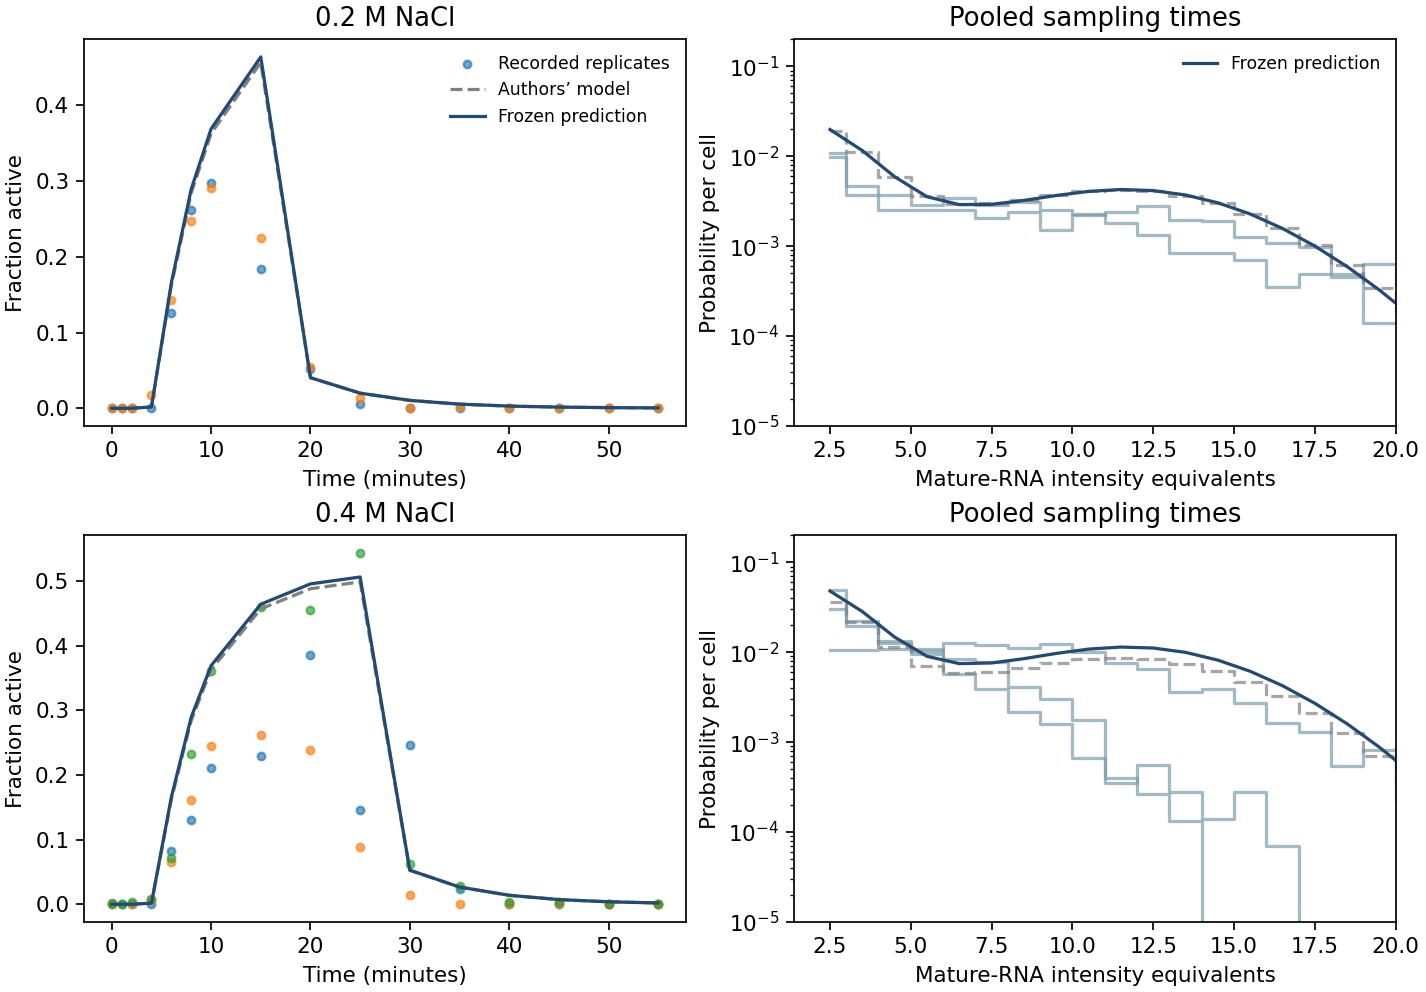
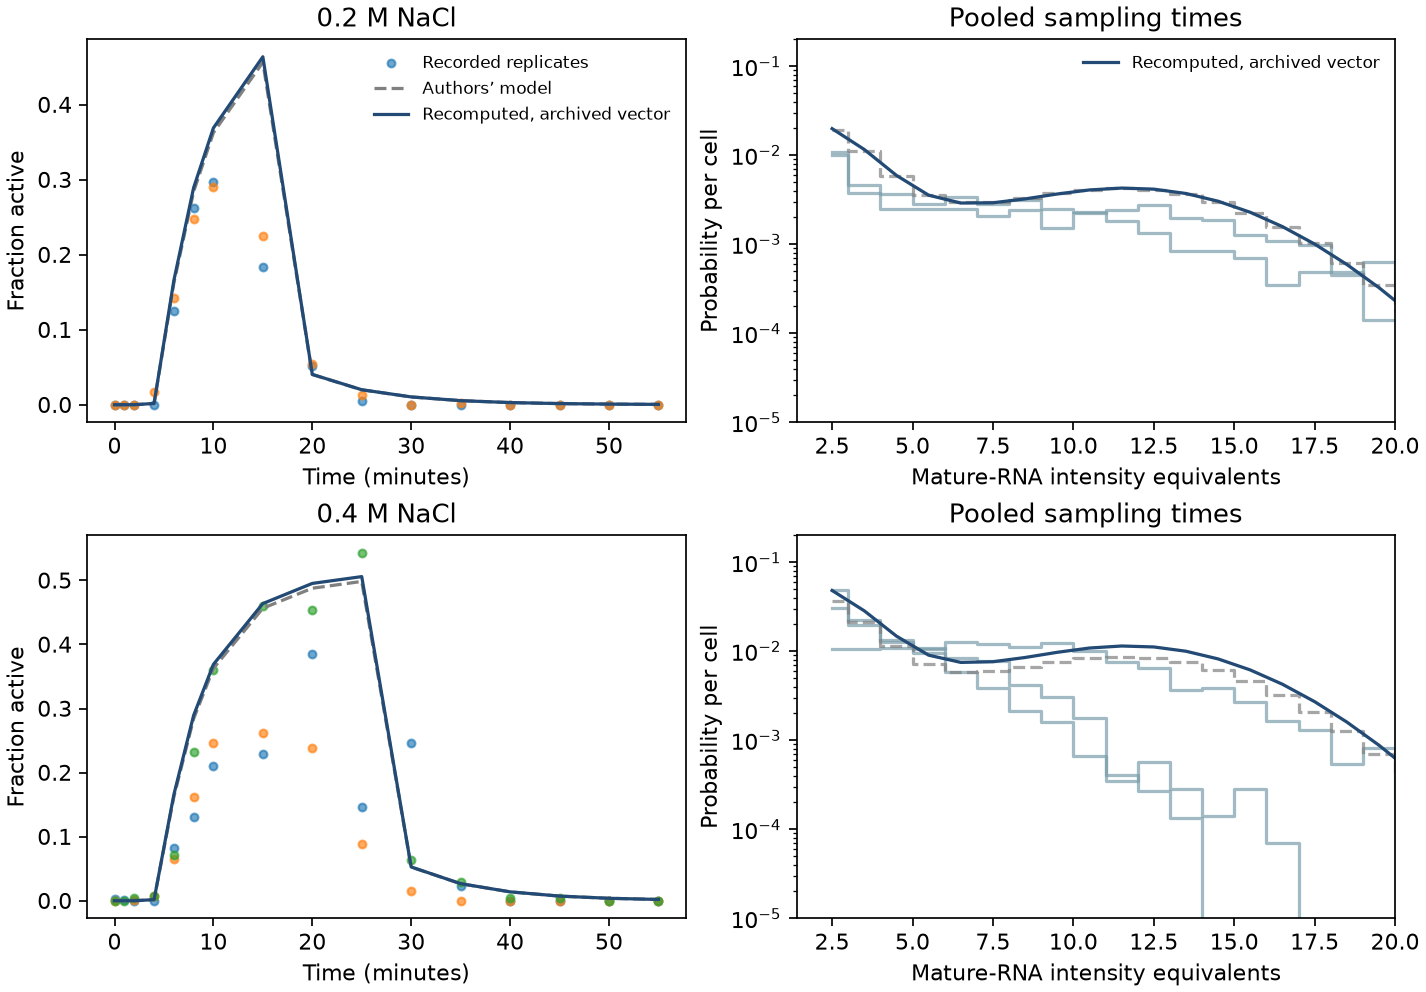
Label the site prediction as recomputed from the archived vector
The spatial parameters are the authors' archived vector, so the site
curve recomputes their prediction rather than forecasting from a model
fitted here. Rename the legend entry, describe the spatial grid option
plainly, and redraw the figures from the saved results.

Claude-Session: https://claude.ai/code/session_01Sh6qH1Noyv64tC6dGfSU2Q

diff --git a/examples/yeast_rna_fit/study.py b/examples/yeast_rna_fit/study.py
@@ -322,7 +322,7 @@ def plot(output, folder):
             line.minute,
             1 - line.model_probability,
             color="#234a74",
-            label="Frozen prediction",
+            label="Recomputed, archived vector",
         )
         axes[i, 0].set(
             xlabel="Time (minutes)", ylabel="Fraction active", title=f"{dose} M NaCl"
@@ -351,7 +351,7 @@ def plot(output, folder):
             averaged.index[positive] + 0.5,
             averaged[positive],
             color="#234a74",
-            label="Frozen prediction",
+            label="Recomputed, archived vector",
         )
         axes[i, 1].set(
             xlabel="Mature-RNA intensity equivalents",
@@ -378,7 +378,7 @@ def main():
     p.add_argument(
         "--spatial-fit",
         action="store_true",
-        help="Refit initiation and cytoplasmic decay on a verified sparse grid",
+        help="Vary initiation in state 3 and cytoplasmic decay on a 3 x 3 grid",
     )
     p.add_argument("--cross-validate", action="store_true")
     p.add_argument("--budget-check", action="store_true")
